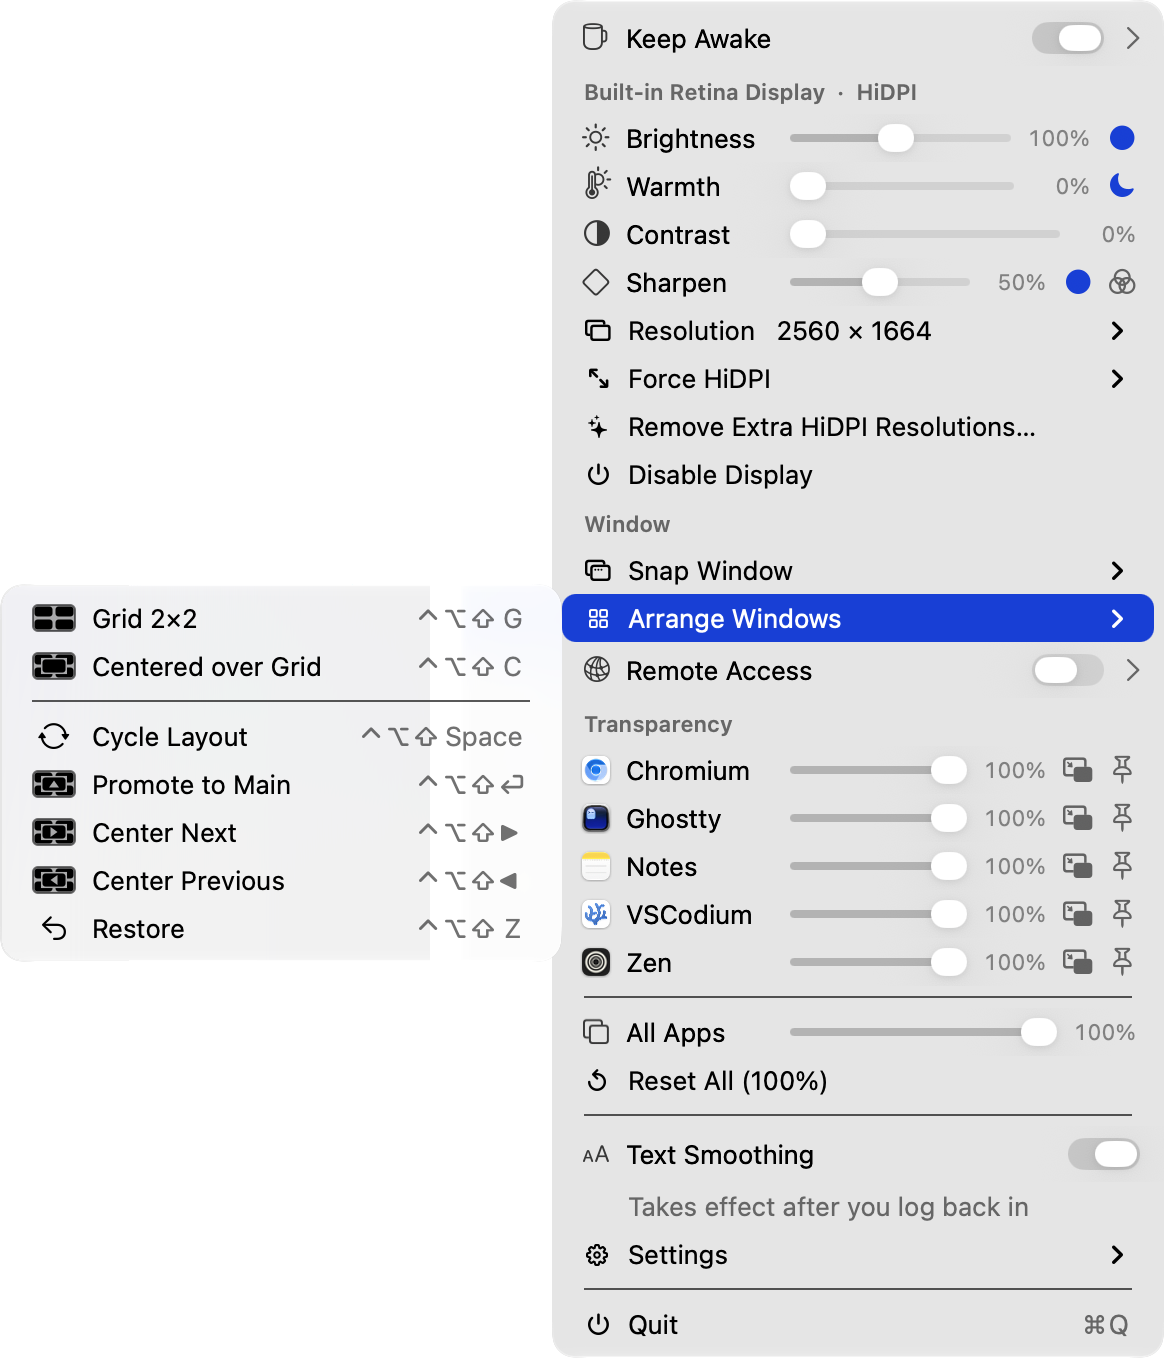
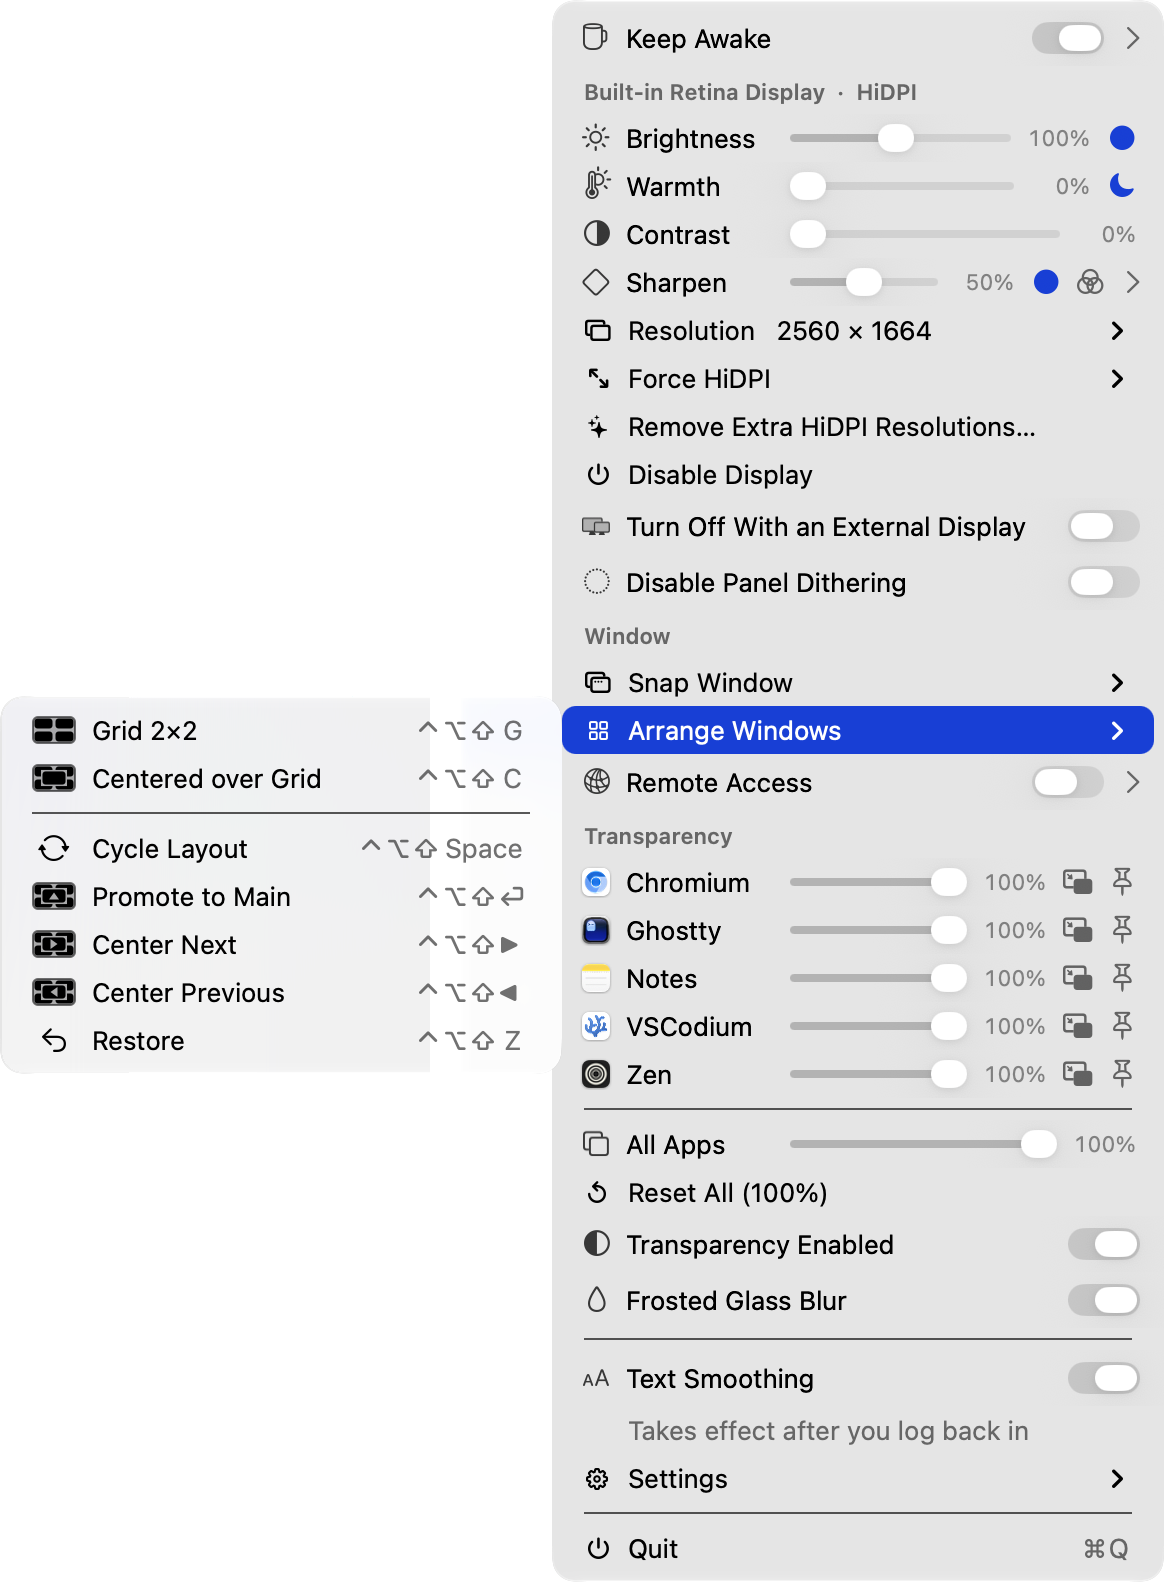
v2.8.14: settings moved inline as switches

diff --git a/docs/index.html b/docs/index.html
@@ -35,7 +35,7 @@
         "processorRequirements": "Apple Silicon",
         "url": "https://displaydeck.pyxis3.ai/",
         "downloadUrl": "https://github.com/pyxis3-ai/displaydeck/releases/latest",
-        "softwareVersion": "2.8.13",
+        "softwareVersion": "2.8.14",
         "license": "https://opensource.org/licenses/MIT",
         "author": { "@type": "Organization", "name": "PYXIS3" },
         "description": "A tiny macOS menu-bar app: disable screens, force HiDPI, boost brightness past 100%, warm the colors (auto at night), snap and tile windows, make any window transparent or float, reach your Mac from anywhere, and keep it awake.",

diff --git a/src/app/AppDelegate.m b/src/app/AppDelegate.m
@@ -455,9 +455,18 @@ static NSAttributedString *ddColumns(NSArray<NSString *> *cols, NSArray<NSNumber
 
     [menu addItem:[NSMenuItem separatorItem]];
 
-    [menu addItem:[self switchRow:@"Text Smoothing" icon:@"textformat.size"
-                               on:([self currentFontSmoothing] != 0)
-                           action:@selector(fontSmoothingToggled:) width:kSliderRowWidth]];
+    // macOS 27 draws text the same at every smoothing level; only on and off
+    // differ there.
+    if (ddTextSmoothingLevelsIgnored()) {
+        [menu addItem:[self switchRow:@"Text Smoothing" icon:@"textformat.size"
+                                   on:([self currentFontSmoothing] != 0)
+                               action:@selector(fontSmoothingToggled:) width:kSliderRowWidth]];
+    } else {
+        [menu addItem:[self toggleRow:@"Text Smoothing" icon:@"textformat.size"
+                                   on:([self currentFontSmoothing] != 0)
+                               action:@selector(fontSmoothingToggled:)
+                              submenu:[self textSmoothingLevelsMenu]]];
+    }
 
     [self addInfoRow:menu title:@"Takes effect after you log back in" image:ddBlankSymbol()];
 
@@ -971,6 +980,11 @@ static NSAttributedString *ddColumns(NSArray<NSString *> *cols, NSArray<NSNumber
     [menu addItem:[self actionItem:@"Disable Display"
                             action:@selector(disableDisplay:) displayID:display.displayID
                             symbol:@"power"]];
+    if (display.isBuiltIn) {
+        [self addInlineSwitch:menu title:@"Turn Off With an External Display" icon:@"display.2" key:kAutoManage];
+        if ([Dithering isAvailable])
+            [self addInlineSwitch:menu title:@"Disable Panel Dithering" icon:@"circle.dotted" key:kDisableDithering];
+    }
 }
 
 - (void)addBrightnessWarmthToMenu:(NSMenu *)menu display:(DDDisplayInfo *)display {
@@ -1025,7 +1039,8 @@ static NSAttributedString *ddColumns(NSArray<NSString *> *cols, NSArray<NSNumber
                                                [self rowToggleWithSymbol:@"camera.filters" onSymbol:@"camera.filters"
                                      state:[Sharpen shared].usesShader tag:0
                                     action:@selector(toggleSharpenShader:)
-                                   tooltip:@"Shader mode (captures the screen)"]]]];
+                                   tooltip:@"Shader mode (captures the screen)"]]
+                                     submenu:[self sharpenOptionsMenu]]];
 }
 
 - (NSMenu *)buildForceHiDPISubmenuForDisplay:(CGDirectDisplayID)displayID
@@ -1135,6 +1150,24 @@ static NSAttributedString *ddColumns(NSArray<NSString *> *cols, NSArray<NSNumber
     reset.target = self;
     reset.image = ddSymbol(@"arrow.counterclockwise");
     [menu addItem:reset];
+    [self addInlineSwitch:menu title:@"Transparency Enabled" icon:@"circle.lefthalf.filled" key:kTransparencyEnabled];
+    [self addInlineSwitch:menu title:@"Frosted Glass Blur" icon:@"drop" key:kFrostedBlur];
+}
+
+// A setting shown where it applies, as a switch. (A checkmark item here would
+// make the menu reserve a checkmark column and push every plain row sideways.)
+- (void)addInlineSwitch:(NSMenu *)menu title:(NSString *)title icon:(NSString *)symbol key:(NSString *)key {
+    NSMenuItem *item = [self switchRow:title icon:symbol on:[self pref:key]
+                                action:@selector(prefSwitchToggled:) width:kSliderRowWidth];
+    for (NSView *view in item.view.subviews)
+        if ([view isKindOfClass:[NSSwitch class]]) view.identifier = key;
+    [menu addItem:item];
+}
+
+- (void)prefSwitchToggled:(NSSwitch *)sender {
+    NSString *key = sender.identifier;
+    [NSUserDefaults.standardUserDefaults setBool:(sender.state == NSControlStateValueOn) forKey:key];
+    [self prefChanged:key];
 }
 
 - (NSButton *)rowToggleWithSymbol:(NSString *)offSymbol
@@ -1165,6 +1198,20 @@ static NSAttributedString *ddColumns(NSArray<NSString *> *cols, NSArray<NSNumber
                                tag:(NSInteger)tag
                             action:(SEL)action
                        accessories:(NSArray<NSButton *> *)accessories {
+    return [self sliderRowWithLabel:label icon:icon percent:pct minPct:minPct maxPct:maxPct
+                         continuous:continuous tag:tag action:action accessories:accessories submenu:nil];
+}
+
+- (NSMenuItem *)sliderRowWithLabel:(NSString *)label
+                              icon:(NSImage *)icon
+                           percent:(int)pct
+                            minPct:(int)minPct
+                            maxPct:(int)maxPct
+                        continuous:(BOOL)continuous
+                               tag:(NSInteger)tag
+                            action:(SEL)action
+                       accessories:(NSArray<NSButton *> *)accessories
+                           submenu:(NSMenu *)submenu {
     NSView *row = [[NSView alloc] initWithFrame:NSMakeRect(0, 0, kSliderRowWidth, 24)];
 
     NSImageView *iconView = nil;
@@ -1231,7 +1278,7 @@ static NSAttributedString *ddColumns(NSArray<NSString *> *cols, NSArray<NSNumber
                 [btn.trailingAnchor constraintEqualToAnchor:rightNeighbor.leadingAnchor constant:-4]];
         } else {
             [constraints addObject:
-                [btn.trailingAnchor constraintEqualToAnchor:row.trailingAnchor constant:-12]];
+                [btn.trailingAnchor constraintEqualToAnchor:row.trailingAnchor constant:submenu ? -28 : -12]];
         }
         rightNeighbor = btn;
         leftmost = btn;
@@ -1256,12 +1303,57 @@ static NSAttributedString *ddColumns(NSArray<NSString *> *cols, NSArray<NSNumber
         [constraints addObject:
             [name.leadingAnchor constraintEqualToAnchor:row.leadingAnchor constant:14]];
     }
+    if (submenu) {
+        NSImageView *chevron = [NSImageView imageViewWithImage:ddSymbol(@"chevron.right")];
+        chevron.contentTintColor = [NSColor tertiaryLabelColor];
+        chevron.translatesAutoresizingMaskIntoConstraints = NO;
+        [row addSubview:chevron];
+        [constraints addObjectsFromArray:@[
+            [chevron.trailingAnchor constraintEqualToAnchor:row.trailingAnchor constant:-11],
+            [chevron.centerYAnchor constraintEqualToAnchor:row.centerYAnchor],
+        ]];
+    }
     [NSLayoutConstraint activateConstraints:constraints];
 
-    NSMenuItem *item = [[NSMenuItem alloc] init];
+    NSMenuItem *item = [[NSMenuItem alloc] initWithTitle:label action:nil keyEquivalent:@""];
     item.tag = kSliderItemTag;
     item.view = row;
+    item.submenu = submenu;
     return item;
+}
+
+- (NSMenu *)sharpenOptionsMenu {
+    NSMenu *menu = [[NSMenu alloc] init];
+    menu.autoenablesItems = NO;
+    [menu addItem:[self checkItemWithTitle:@"Sharpen Enabled" key:kSharpenEnabled]];
+    [menu addItem:[self checkItemWithTitle:@"Keep Shader Mode on Battery" key:kSharpenShaderOnBattery]];
+    [menu addItem:[NSMenuItem sectionHeaderWithTitle:@"Edge Width"]];
+    NSArray<NSString *> *radii = @[@"Fine", @"Medium", @"Wide"];
+    for (NSUInteger i = 0; i < radii.count; i++) {
+        NSMenuItem *item = [[NSMenuItem alloc] initWithTitle:radii[i]
+            action:@selector(setSharpenRadius:) keyEquivalent:@""];
+        item.target = self;
+        item.tag = (NSInteger)i + 1;
+        item.state = ([Sharpen shared].radius == item.tag) ? NSControlStateValueOn : NSControlStateValueOff;
+        [menu addItem:item];
+    }
+    return menu;
+}
+
+- (NSMenu *)textSmoothingLevelsMenu {
+    NSMenu *menu = [[NSMenu alloc] init];
+    menu.autoenablesItems = NO;
+    NSArray<NSString *> *levels = @[@"Light", @"Medium", @"Strong"];
+    NSInteger currentLevel = [NSUserDefaults.standardUserDefaults integerForKey:kTextSmoothingLevel];
+    for (NSUInteger i = 0; i < levels.count; i++) {
+        NSMenuItem *item = [[NSMenuItem alloc] initWithTitle:levels[i]
+            action:@selector(setTextSmoothingLevel:) keyEquivalent:@""];
+        item.target = self;
+        item.tag = (NSInteger)i + 1;
+        item.state = (currentLevel == item.tag) ? NSControlStateValueOn : NSControlStateValueOff;
+        [menu addItem:item];
+    }
+    return menu;
 }
 
 - (void)sizeSliderRowsInMenu:(NSMenu *)menu {
@@ -1397,52 +1489,8 @@ static NSAttributedString *ddColumns(NSArray<NSString *> *cols, NSArray<NSNumber
 
     [menu removeAllItems];
 
-    [menu addItem:[NSMenuItem sectionHeaderWithTitle:@"General"]];
     [menu addItem:[self checkItemWithTitle:@"Show Notifications" key:kShowNotifications]];
-    [menu addItem:[self checkItemWithTitle:@"Confirm Before Disabling" key:kConfirmDisable]];
-    [menu addItem:[self checkItemWithTitle:@"Show Non-HiDPI Resolutions" key:kShowResolutions]];
-
-    [menu addItem:[NSMenuItem sectionHeaderWithTitle:@"Display"]];
-    [menu addItem:[self checkItemWithTitle:@"Turn Off Built-in Display When an External Is Connected"
-                                       key:kAutoManage]];
-    if ([Dithering isAvailable])
-        [menu addItem:[self checkItemWithTitle:@"Disable Panel Dithering" key:kDisableDithering]];
-
-    // macOS 27 draws text the same at every smoothing level; only on and off
-    // differ there, and the switch in the main menu covers that.
-    if (!ddTextSmoothingLevelsIgnored()) {
-        [menu addItem:[NSMenuItem sectionHeaderWithTitle:@"Text Smoothing"]];
-        NSArray<NSString *> *levels = @[@"Light", @"Medium", @"Strong"];
-        NSInteger currentLevel = [NSUserDefaults.standardUserDefaults integerForKey:kTextSmoothingLevel];
-        for (NSUInteger i = 0; i < levels.count; i++) {
-            NSMenuItem *item = [[NSMenuItem alloc] initWithTitle:levels[i]
-                action:@selector(setTextSmoothingLevel:) keyEquivalent:@""];
-            item.target = self;
-            item.tag = (NSInteger)i + 1;
-            item.state = (currentLevel == item.tag) ? NSControlStateValueOn : NSControlStateValueOff;
-            [menu addItem:item];
-        }
-    }
-
-    [menu addItem:[NSMenuItem sectionHeaderWithTitle:@"Sharpen"]];
-    [menu addItem:[self checkItemWithTitle:@"Sharpen Enabled" key:kSharpenEnabled]];
-    [menu addItem:[self checkItemWithTitle:@"Auto Strength for the Resolution" key:kSharpenAuto]];
-    [menu addItem:[self checkItemWithTitle:@"Shader Mode (Captures the Screen)" key:kSharpenShader]];
-    [menu addItem:[self checkItemWithTitle:@"Keep Shader Mode on Battery" key:kSharpenShaderOnBattery]];
-    NSArray<NSString *> *radii = @[@"Radius: Fine", @"Radius: Medium", @"Radius: Wide"];
-    for (NSUInteger i = 0; i < radii.count; i++) {
-        NSMenuItem *item = [[NSMenuItem alloc] initWithTitle:radii[i]
-            action:@selector(setSharpenRadius:) keyEquivalent:@""];
-        item.target = self;
-        item.tag = (NSInteger)i + 1;
-        item.state = ([Sharpen shared].radius == item.tag) ? NSControlStateValueOn : NSControlStateValueOff;
-        [menu addItem:item];
-    }
-
-    [menu addItem:[NSMenuItem sectionHeaderWithTitle:@"Transparency"]];
-    [menu addItem:[self checkItemWithTitle:@"Transparency Enabled" key:kTransparencyEnabled]];
-    [menu addItem:[self checkItemWithTitle:@"Frosted Glass Blur" key:kFrostedBlur]];
-
+    [menu addItem:[self checkItemWithTitle:@"Confirm Before Disabling a Display" key:kConfirmDisable]];
     [menu addItem:[NSMenuItem separatorItem]];
     NSMenuItem *login = [[NSMenuItem alloc] initWithTitle:@"Launch at Login"
         action:@selector(toggleLoginItem:) keyEquivalent:@""];
@@ -1582,6 +1630,8 @@ static NSAttributedString *ddColumns(NSArray<NSString *> *cols, NSArray<NSNumber
     [submenu addItem:[NSMenuItem separatorItem]];
     [self addLabelToMenu:submenu title:@"★ = panel-native (crispest)"];
     [self addLabelToMenu:submenu title:kLargerSizesHint];
+    [submenu addItem:[NSMenuItem separatorItem]];
+    [submenu addItem:[self checkItemWithTitle:@"Show Non-HiDPI Resolutions" key:kShowResolutions]];
 
     return submenu;
 }
@@ -1898,6 +1948,10 @@ static NSAttributedString *ddColumns(NSArray<NSString *> *cols, NSArray<NSNumber
     NSString *key = sender.representedObject;
     [self flipPref:key];
     sender.state = [self pref:key] ? NSControlStateValueOn : NSControlStateValueOff;
+    [self prefChanged:key];
+}
+
+- (void)prefChanged:(NSString *)key {
     if ([key isEqualToString:kShowResolutions]) [self rebuildMenu];
     if ([key isEqualToString:kAutoManage] && [self pref:kAutoManage]) {
         [self performAutoDisableIfNeeded];

diff --git a/README.md b/README.md
@@ -7,7 +7,7 @@
 
 Disable & enable screens, Force HiDPI, brightness with EDR boost, color warmth (with auto-night), window tiling/snapping, transparency, blur, keep-on-top & picture-in-picture, keep-awake, remote access.
 
-[![Release](https://img.shields.io/badge/release-v2.8.13-2ea44f?style=flat-square)](https://github.com/pyxis3-ai/displaydeck/releases/latest)
+[![Release](https://img.shields.io/badge/release-v2.8.14-2ea44f?style=flat-square)](https://github.com/pyxis3-ai/displaydeck/releases/latest)
 [![License](https://img.shields.io/badge/license-MIT-3da639?style=flat-square)](LICENSE)
 [![Platform](https://img.shields.io/badge/macOS-14%2B-000?style=flat-square&logo=apple&logoColor=white)](#requirements)
 [![Apple Silicon](https://img.shields.io/badge/Apple_Silicon-555?style=flat-square)](#requirements)
@@ -75,7 +75,7 @@ The menu - a **Keep Awake** row with an inline toggle, per-display **Brightness*
 
 <p align="center"><img src="assets/screenshots/arrange.png" width="430" alt="Arrange Windows submenu - Grid 2×2, Centered over Grid, Cycle Layout, Promote to Main, Center Next/Previous, Restore" /></p>
 
-Submenus - Keep-Awake durations, the curated **Resolution** picker (= panel-native), the **Force HiDPI** "More Space" tier, and the grouped **Settings**:
+Submenus - Keep-Awake durations, the curated **Resolution** picker (= panel-native), the **Force HiDPI** "More Space" tier, and the app-wide **Settings** (everything else is a switch next to the thing it controls):
 
 <p align="center">
   <img src="assets/screenshots/keepawake.png" width="330" alt="Keep Awake durations" />

diff --git a/CHANGELOG.md b/CHANGELOG.md
@@ -2,6 +2,18 @@
 
 All notable changes to DisplayDeck are documented here. Format follows [Keep a Changelog](https://keepachangelog.com); versions follow [SemVer](https://semver.org).
 
+## [2.8.14] - 2026-10-10
+
+### Changed
+
+- **Settings moved to where they apply**, as switches you flip in place:
+  - _Turn Off With an External Display_ and _Disable Panel Dithering_ sit in the built-in display's section.
+  - _Transparency Enabled_ and _Frosted Glass Blur_ sit under the Transparency sliders.
+  - The Sharpen row opens its own options: _Sharpen Enabled_, _Keep Shader Mode on Battery_ and the edge width (Fine, Medium, Wide).
+  - _Show Non-HiDPI Resolutions_ is at the bottom of the Resolution list.
+  - Text Smoothing levels, on macOS versions where they differ, open from the Text Smoothing row.
+- **Settings now holds only app-wide choices**: notifications, the confirmation before disabling a display, Launch at Login, and Help & Support.
+
 ## [2.8.13] - 2026-10-10
 
 ### Added
